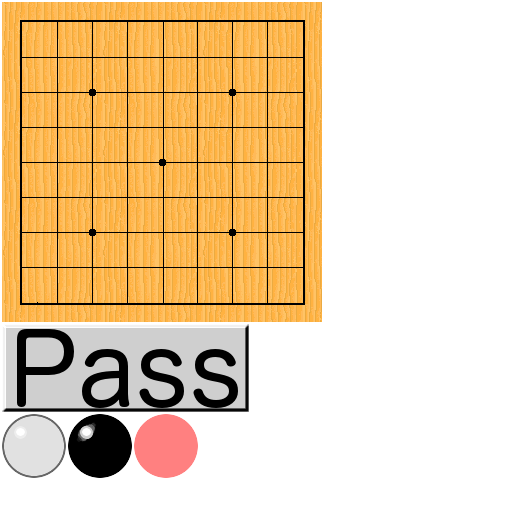
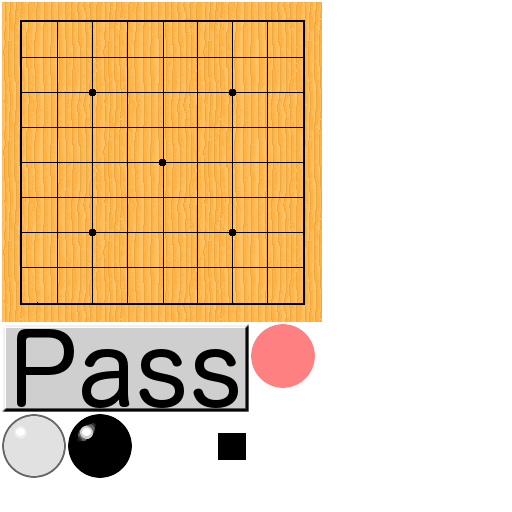
パスも履歴にいれる。

Changed region(s): [[0.25, 0.7812, 0.5, 0.9375], [0.4688, 0.625, 0.625, 0.7812]]

diff --git a/igo/Te.cpp b/igo/Te.cpp
@@ -24,6 +24,23 @@ Te* Te::createWithPositionAndColor(int x, int y, GOISHI color){
 	return pRet;
 }
 
+Te* Te::createPass(){
+    Te* pRet = new Te();
+    if (pRet && pRet->init())
+    {
+        pRet->autorelease();
+    }
+    else
+    {
+        CC_SAFE_DELETE(pRet);
+    }
+	return pRet;
+}
+
+bool Te::isPass(){
+    return this->pass;
+}
+
 Te::Te(int x, int y, GOISHI color){
     assert(x >= 0 && x < BAN_SIZE);
     assert(y >= 0 && y < BAN_SIZE);
@@ -31,6 +48,15 @@ Te::Te(int x, int y, GOISHI color){
     this->y = y;
     this->color = color;
     this->removedNum = 0;
+    this->pass = false;
+}
+
+Te::Te(){
+    this->x = -1;
+    this->y = -1;
+    this->color = NONE;
+    this->removedNum = 0;
+    this->pass = true;
 }
 
 Te::~Te(){

diff --git a/igo Tests/TeTest.mm b/igo Tests/TeTest.mm
@@ -42,8 +42,22 @@
     XCTAssertEqual(te->getY(), 1);
     XCTAssertEqual(te->getColor(), WHITE);
     
+    
+    Te* te1 = new Te();
+    XCTAssertEqual(te1->getX(), -1);
+    XCTAssertEqual(te1->getY(), -1);
+    XCTAssertEqual(te1->getColor(), NONE);
+    
     //XCTAssertThrows(new Te(9, 0, WHITE),"over ban size");
     //XCTAssertThrows(new Te(0, 9, BLACK),"over ban size");
+}
+- (void)testIsPass
+{
+    Te* te = new Te(0, 1, WHITE);
+    XCTAssertEqual(te->isPass(), false);
+    
+    Te* te1 = new Te();
+    XCTAssertEqual(te1->isPass(), true);
 }
 
 

diff --git a/igo/Te.h b/igo/Te.h
@@ -22,6 +22,7 @@ class Te : public CCObject{
     GOISHI color;
     bool init();
     int removedNum;
+    bool pass;
 public:
     int getX();
     int getY();
@@ -29,7 +30,10 @@ public:
     void setRemovedNum(int removedNum);
     int getRemovedNum();
     static Te* createWithPositionAndColor(int x, int y, GOISHI color);
+    static Te* createPass();
+    bool isPass();
     Te(int x, int y, GOISHI color);
+    Te();
     ~Te();
 };
 

diff --git a/igo/History.cpp b/igo/History.cpp
@@ -13,6 +13,8 @@ void History::pushTe(Te *te){
     this->addObject((CCObject*) te);
 }
 
+
+
 Te* History::getTe(int tekazu){
     if(this->count() < tekazu){
         return NULL;
@@ -34,4 +36,8 @@ Te* History::getBeforeLast(){
         return NULL;
     }
     return (Te*) this->objectAtIndex(this->count() - 2);
+}
+
+void History::pushPass(){
+    this->addObject(Te::createPass());
 }

diff --git a/igo Tests/GobanTest.mm b/igo Tests/GobanTest.mm
@@ -41,6 +41,13 @@ using namespace std;
     }
 }
 
+- (void)testPass
+{
+    Goban* goban = new Goban();
+    goban->pass();
+    XCTAssertEqual(goban->getHistory()->getLast()->isPass(), true);
+}
+
 - (void)testPutGoishi
 {
     Goban* goban0 = new Goban();

diff --git a/igo/Goban.cpp b/igo/Goban.cpp
@@ -326,5 +326,9 @@ bool Goban::hasCanGetGoishiAround(int x, int y){
     return false;
 }
 
+void Goban::pass(){
+    this->history->pushPass();
+}
+
 Goban::~Goban(){
 }

diff --git a/igo/History.h b/igo/History.h
@@ -22,6 +22,7 @@ public:
     Te* getTe(int tekazu);
     Te* getLast();
     Te* getBeforeLast();//2個前
+    void pushPass();
     CREATE_FUNC(History);
 };
 

diff --git a/igo/Goban.h b/igo/Goban.h
@@ -66,6 +66,9 @@ public:
     
     GOISHI getGoishi(int x, int y);
     
+    // passする。
+    void pass();
+    
     Goban();
     ~Goban();
 };
